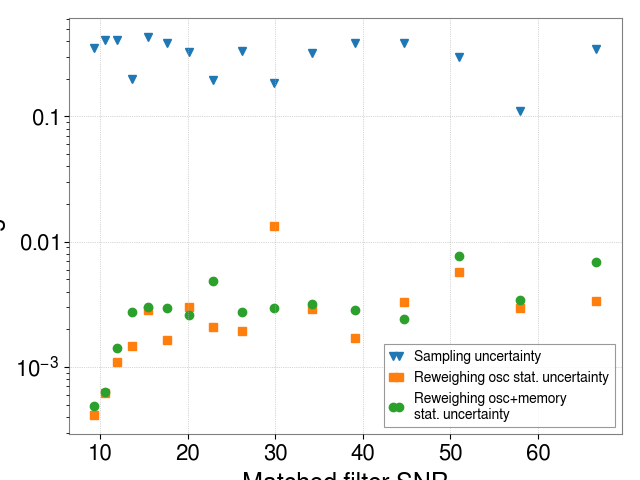
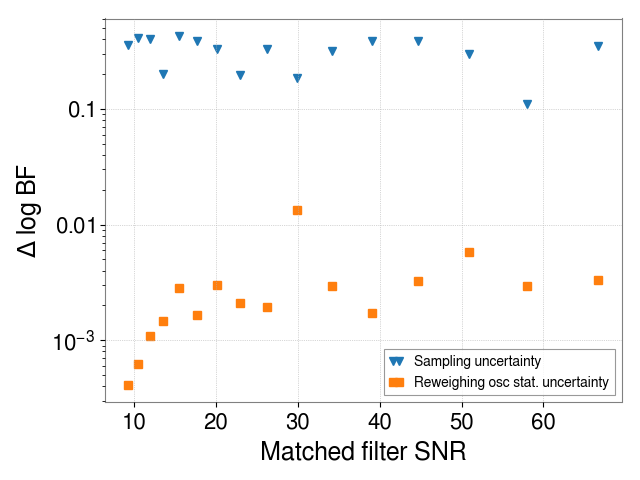
Finalizing reweighting

diff --git a/scripts/production_evidence_reweighing_analysis.py b/scripts/production_evidence_reweighing_analysis.py
@@ -109,14 +109,14 @@ plt.errorbar(x=matched_filter_snrs, y=average_sampling_log_bfs, fmt='v',
              yerr=np.array(population_sampling_log_bfs_uncertainties), label='Sampling')
 plt.plot(matched_filter_snrs, average_reweighing_to_memory_log_bfs, 's',
          label='Reweighing osc recovered')
-plt.plot(matched_filter_snrs, average_reweighing_from_memory_log_bfs, 'o',
-         label='Reweighing osc+memory\n recovered')
+# plt.plot(matched_filter_snrs, average_reweighing_from_memory_log_bfs, 'o',
+#          label='Reweighing osc+memory\n recovered')
 
 plt.legend()
-plt.tight_layout()
 plt.xlabel('Matched filter SNR')
 plt.ylabel('log BF')
 plt.savefig('reweighing/LogBFs vs SNR')
+plt.tight_layout()
 plt.show()
 plt.clf()
 
@@ -124,13 +124,13 @@ plt.plot(matched_filter_snrs, sampling_log_bfs_uncertainties, 'v',
          label='Sampling uncertainty')
 plt.plot(matched_filter_snrs, reweighing_to_memory_log_bfs_uncertainties, 's',
          label='Reweighing osc stat. uncertainty')
-plt.plot(matched_filter_snrs, reweighing_from_memory_log_bfs_uncertainties, 'o',
-         label='Reweighing osc+memory \nstat. uncertainty')
+# plt.plot(matched_filter_snrs, reweighing_from_memory_log_bfs_uncertainties, 'o',
+#          label='Reweighing osc+memory \nstat. uncertainty')
 plt.semilogy()
-plt.tight_layout()
 plt.legend()
 plt.xlabel('Matched filter SNR')
 plt.ylabel('$\Delta$ log BF')
+plt.tight_layout()
 plt.savefig('reweighing/LogBFs errors vs SNR')
 plt.show()
 plt.clf()

diff --git a/memestr/core/postprocessing.py b/memestr/core/postprocessing.py
@@ -208,9 +208,11 @@ def reweigh_by_two_likelihoods(posterior, likelihood_memory, likelihood_no_memor
     samples = []
     for i in range(len(posterior)):
         logger.info("{:0.2f}".format(i/len(posterior)*100) + "%")
+        sample = dict()
         for parameter in ['total_mass', 'mass_ratio', 'inc', 'luminosity_distance',
                           'phase', 'ra', 'dec', 'psi', 'geocent_time', 's13', 's23']:
-            samples.append(posterior.iloc[i][parameter])
+            sample[parameter] = posterior.iloc[i][parameter]
+        samples.append(sample)
     weights = [likelihood_memory.log_likelihood(samples[i])/likelihood_no_memory.log_likelihood(samples[i])
                for i in range(len(posterior))]
     return np.log(np.sum(weights))
